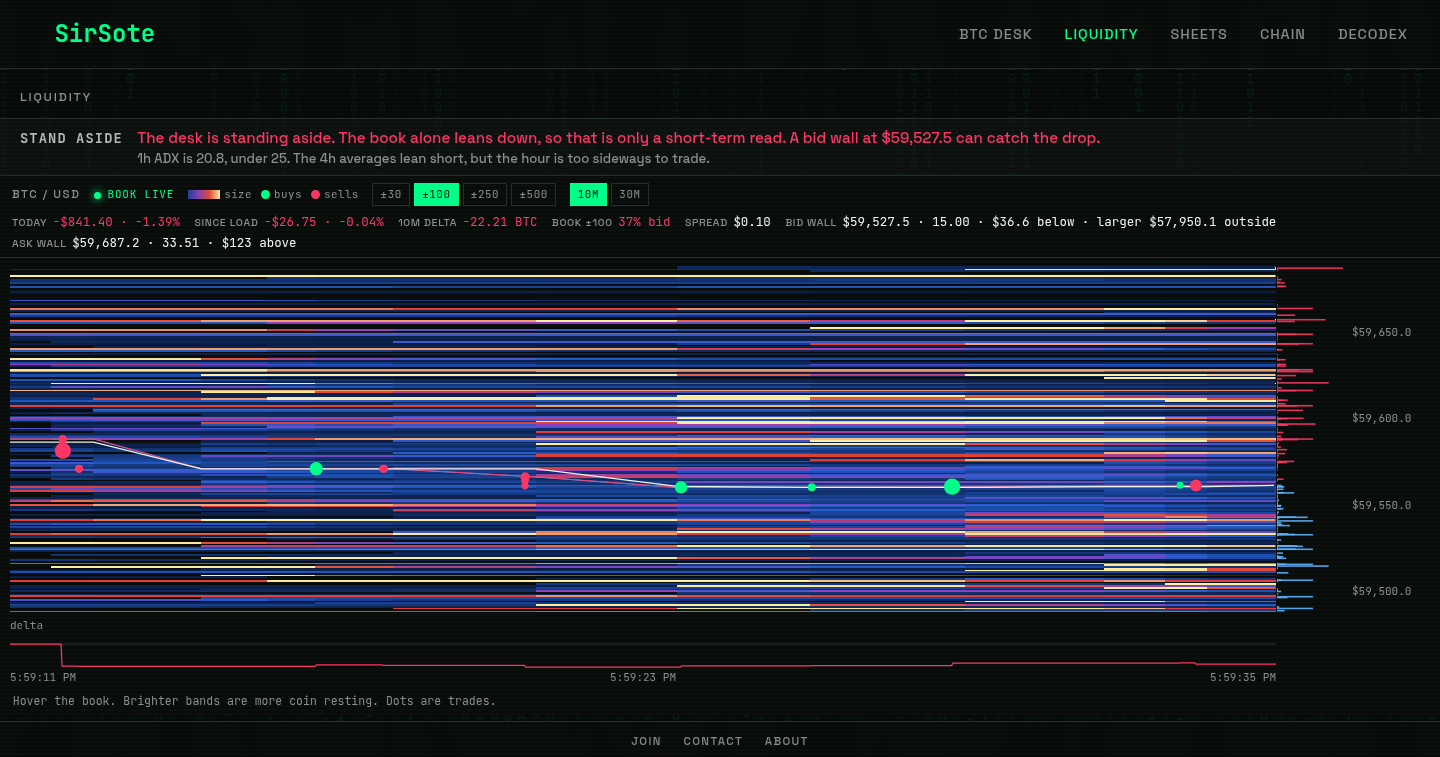
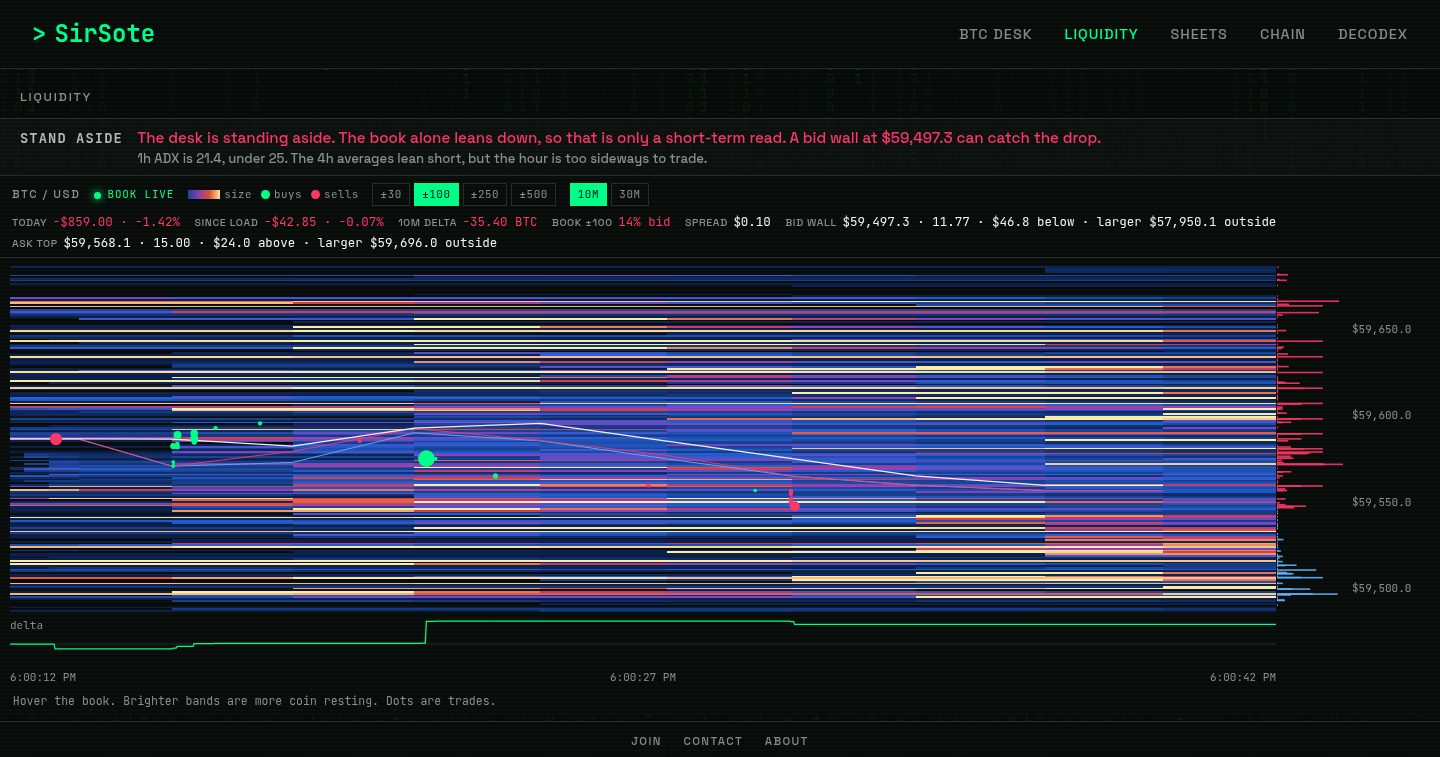
Update the sheet.

diff --git a/p/sheets/index.html b/p/sheets/index.html
@@ -30,15 +30,15 @@
     </header>
     <main>
         <article class="sheet">
-        <p class="sheet-kicker">BTC Desk · Update · <strong>5:59 PM MST</strong></p>
+        <p class="sheet-kicker">BTC Desk · Update · <strong>6:00 PM MST</strong></p>
         <dl class="lines">
-            <div><dt>Day</dt><dd><span class="call aside">STAND ASIDE</span> · <span class="price">$59,741.20</span></dd></div>
+            <div><dt>Day</dt><dd><span class="call aside">STAND ASIDE</span> · <span class="price">$59,572.10</span></dd></div>
             <div><dt>Swing</dt><dd><span class="call aside">STAND ASIDE</span></dd></div>
             <div><dt>Hold</dt><dd><span class="call short">SHORT</span></dd></div>
         </dl>
         
-        <p class="since">Unchanged since <strong>5:00 PM MST</strong></p>
-        <p class="why">1h ADX is 20.8, under 25. The 4h averages lean short, but the hour is too sideways to trade.</p>
+        
+        <p class="why">1h ADX is 21.4, under 25. The 4h averages lean short, but the hour is too sideways to trade.</p>
         
         <p class="fine"><a href="https://sirsote.com/p/btc-desk/">https://sirsote.com/p/btc-desk/</a></p>
         <p class="fine">Rules readout. The next move can ignore it.</p>
